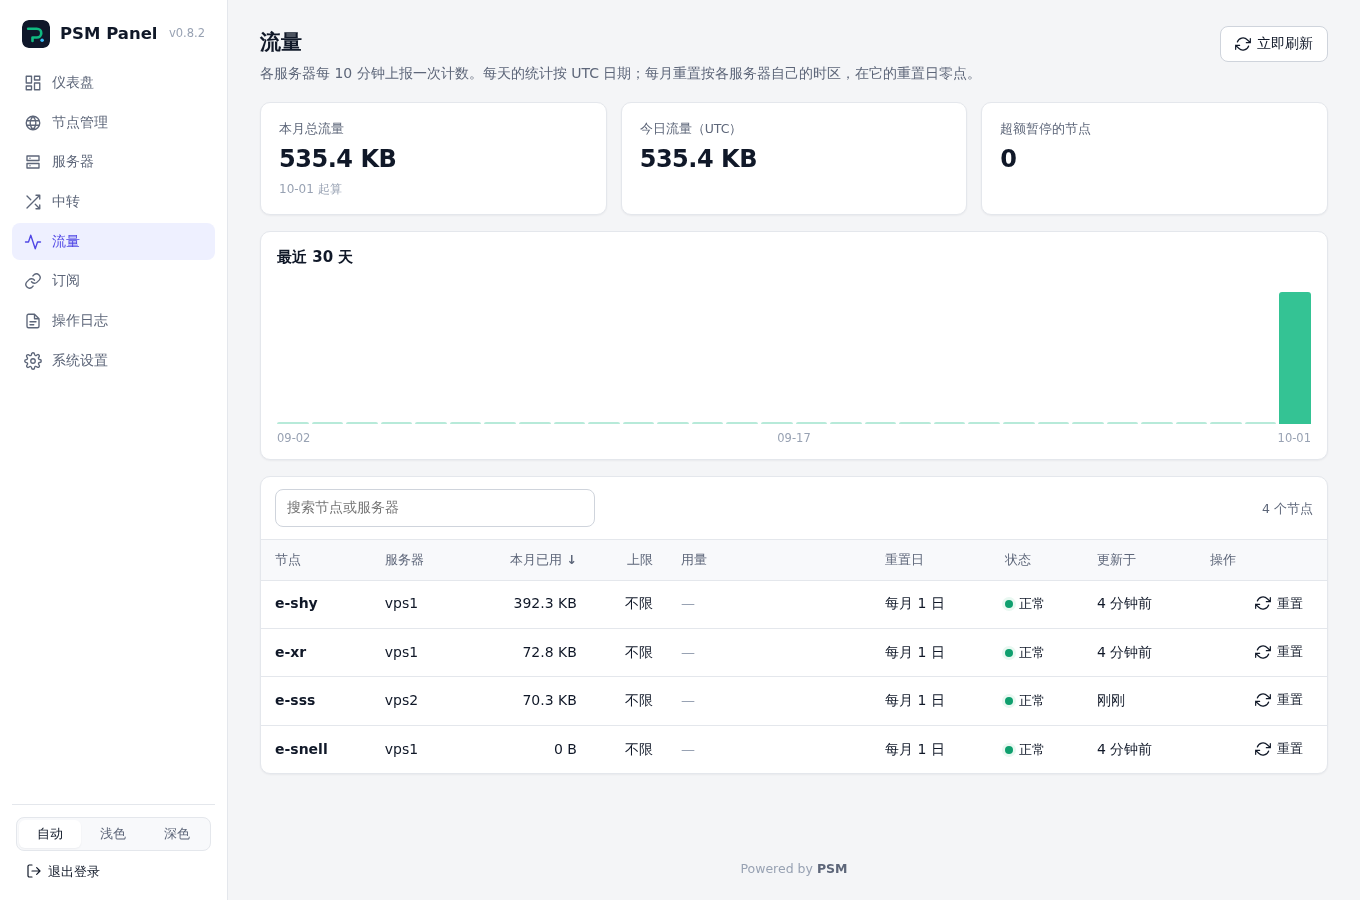
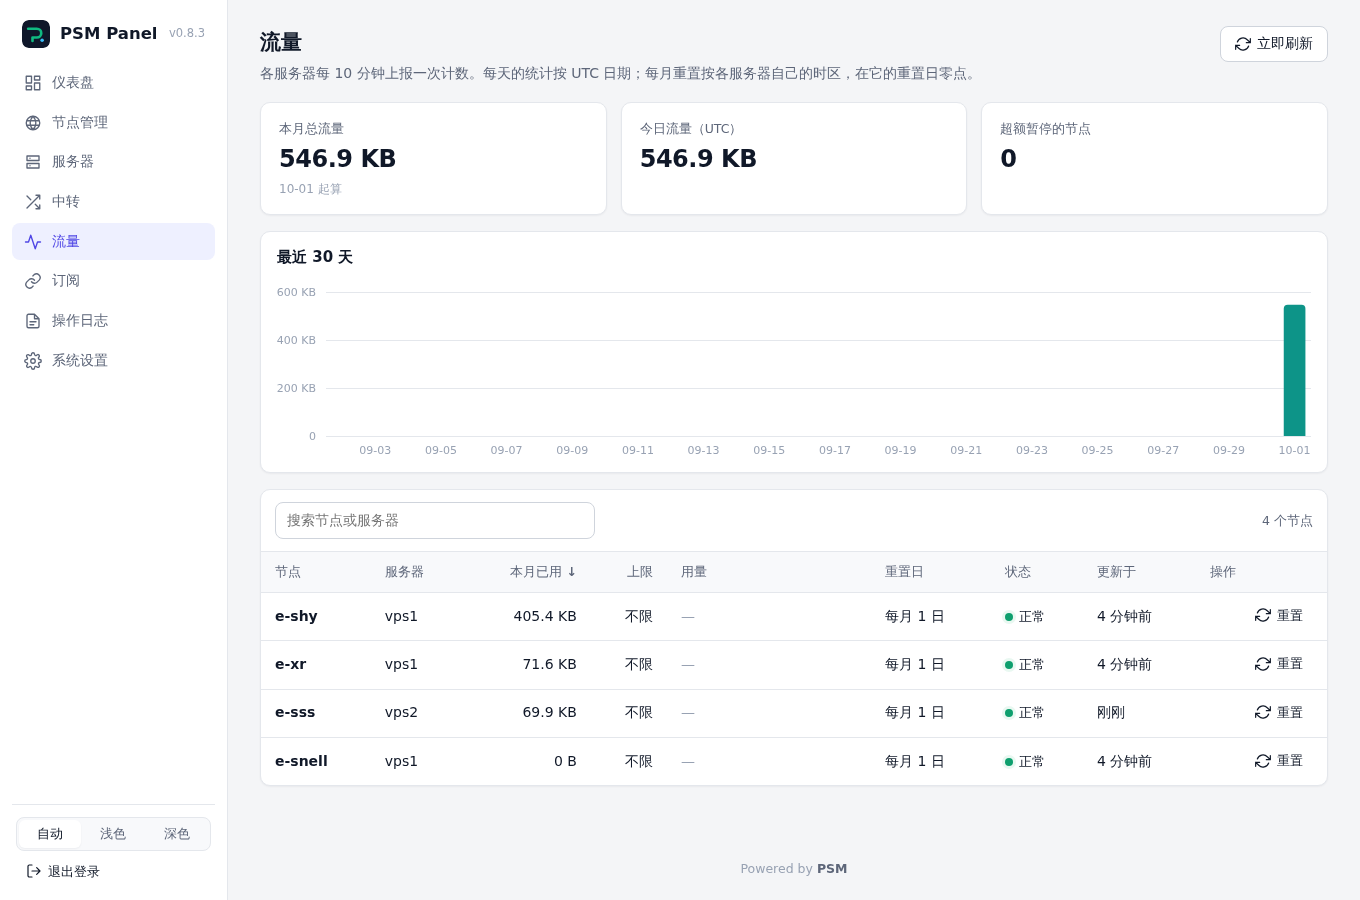
Panel 0.8.3's charts: hover for a day's or a moment's values
The traffic chart's tooltip (mouse, touch or arrow keys) and the relay
charts' shared time axis with one crosshair; new pictures of the dashboard
and the traffic page.

diff --git a/docs/guide/relays.md b/docs/guide/relays.md
@@ -62,7 +62,7 @@ hk-us  auto  198.51.100.7:8443,198.51.100.8:8443
 | 延迟 / 丢包 | 入口到下一跳最近一次的往返延迟和丢包（颜色越红越差）；隧道还有出口到落地这一跳 |
 | 流量 | 这条中转搬运的流量；设了限额时还有本月用量条；到期时间 |
 
-点一行展开：延迟 / 抖动、丢包和流量曲线（1 小时、6 小时、24 小时、7 天），每个落地的健康状况，以及这条中转的全部设置。psm-agent 每分钟测一次，面板保留 7 天；曲线不论时间范围都画成约 240 个点。延迟用 TCP 连接测量而不是 ping（ICMP 在这类网络上常被过滤，会报出不存在的丢包），落地完全不通时显示 100% 丢包而不是编一个延迟。
+点一行展开：延迟 / 抖动、丢包和流量曲线（1 小时、6 小时、24 小时、7 天），每个落地的健康状况，以及这条中转的全部设置。三张图共用一条时间轴：鼠标移到图上，一条竖线同时穿过三张图，提示框列出那一刻的延迟、抖动、丢包和流量（键盘上用左右方向键移动）。服务器有一阵没有上报时，曲线在那里断开，而不是用直线连过去。psm-agent 每分钟测一次，面板保留 7 天；曲线不论时间范围都画成约 240 个点。延迟用 TCP 连接测量而不是 ping（ICMP 在这类网络上常被过滤，会报出不存在的丢包），落地完全不通时显示 100% 丢包而不是编一个延迟。
 
 搜索框按名称、端口、落地地址过滤；还可以按服务器（入口或出口是它都算）、方式和状态（"有问题"＝失败、暂停或有丢包）筛选。
 

diff --git a/docs/guide/traffic.md b/docs/guide/traffic.md
@@ -5,7 +5,7 @@
 每台服务器统计自己节点的流量（Xray 节点用 Xray 的统计接口，其余节点用 iptables 计数），psm-agent 每 10 分钟把数字发给面板。**流量** 页显示：
 
 - 本月总流量（从重置日起算，卡片上写着从哪天算起）、今日流量、超额暂停的节点数；
-- 最近 30 天每天的流量（鼠标移到柱子上看当天的数字）。重置日之前的柱子是浅色的：那是上个月的流量，已经清零，不计入本月。仪表盘的“最近 14 天”也一样；
+- 最近 30 天每天的流量：鼠标移到某一天上（手机上用手指点或划过，键盘上点一下图后用左右方向键），提示框里是当天的流量和日期。重置日之前的柱子是浅色的：那是上个月的流量，已经清零，不计入本月。仪表盘的“最近 14 天”也一样；
 - 每个节点本月已用、上限、用量条、重置日、状态和多久以前更新的；可以搜索，点表头排序。
 
 点 **立即刷新** 让所有服务器马上发一次（几秒后更新）。
